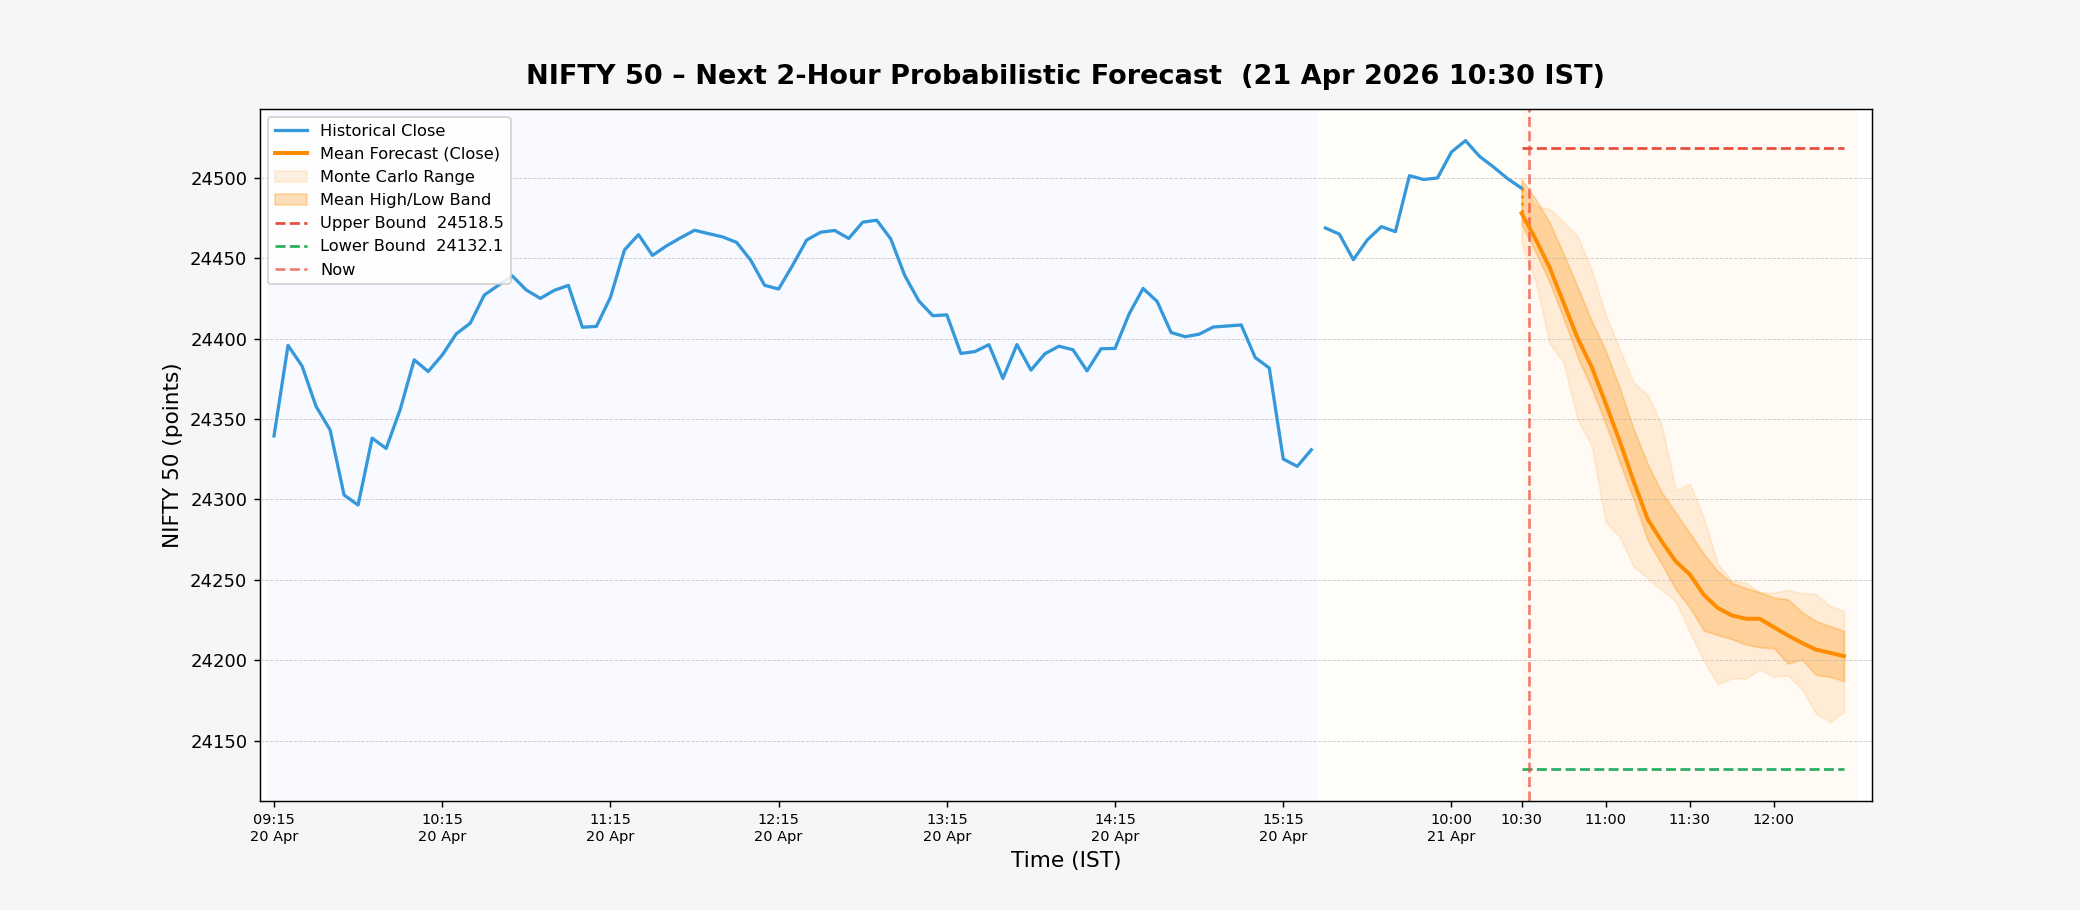
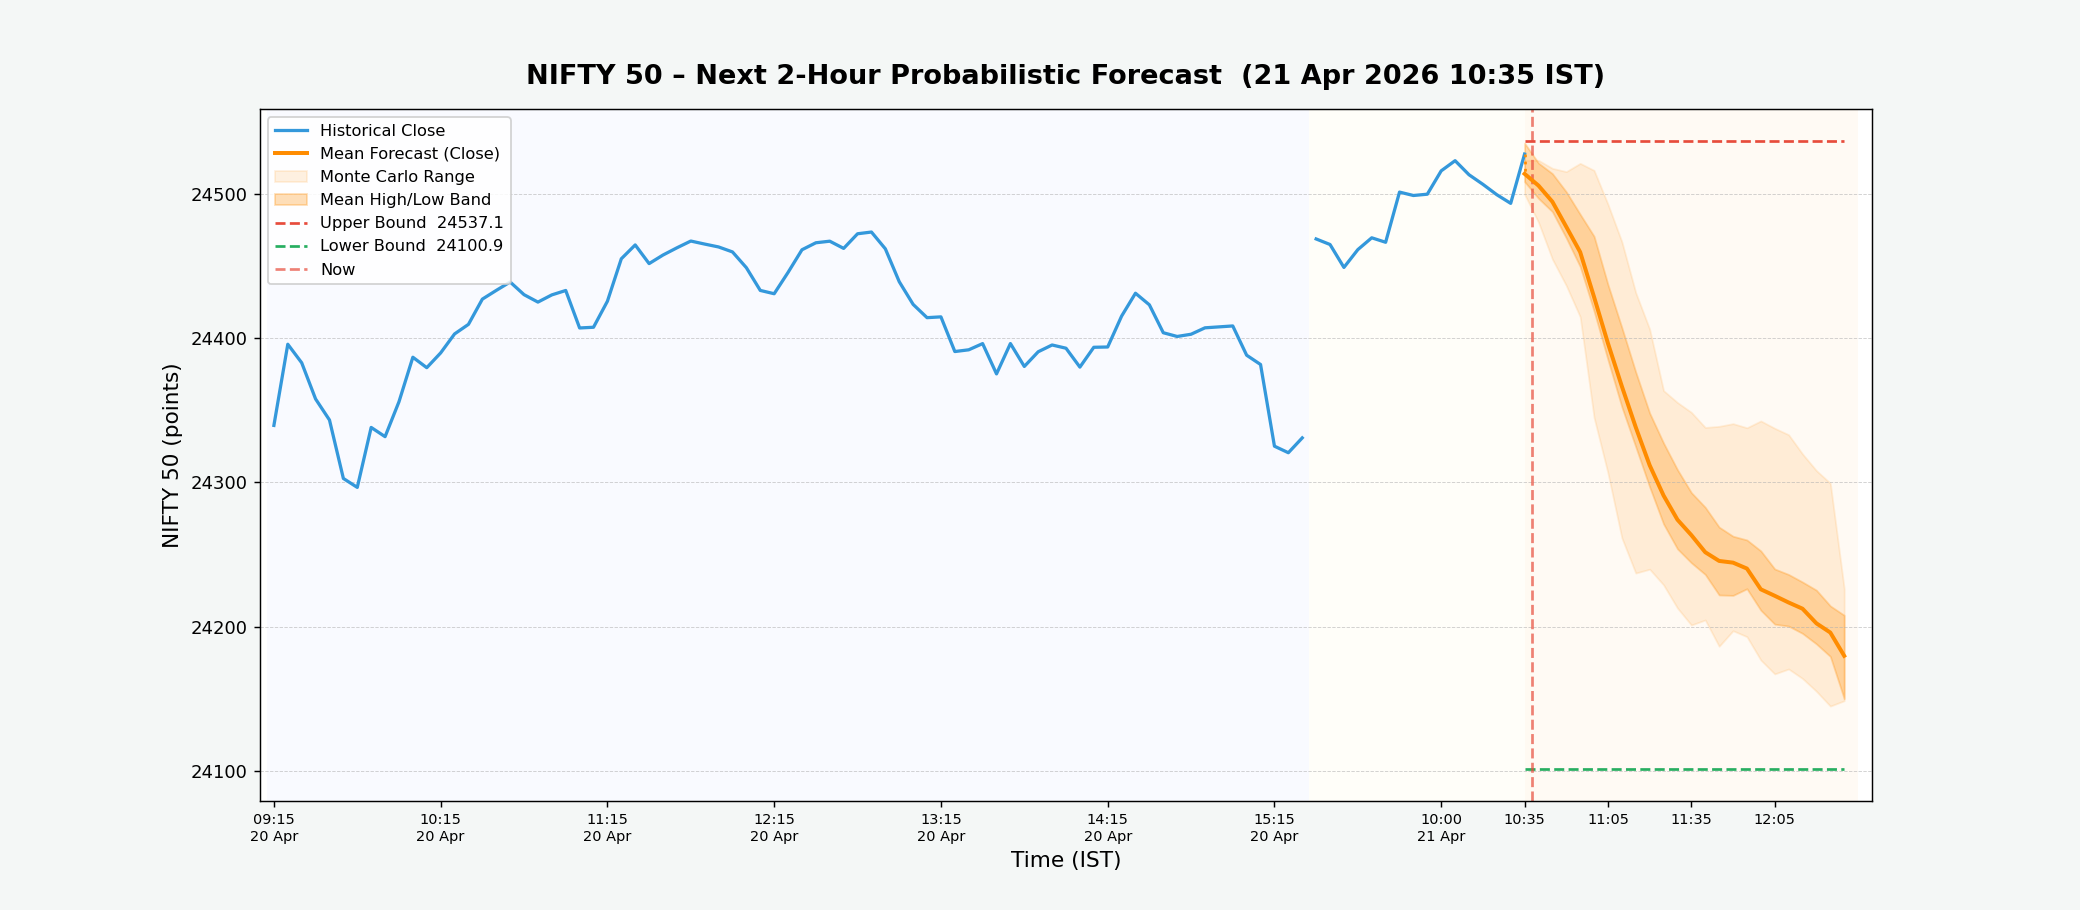
NIFTY forecast update – 2026-04-21 10:35 IST

diff --git a/index.html b/index.html
@@ -24,29 +24,29 @@
 
         <!-- Timestamp bar -->
         <div class="timestamp-bar">
-            <span>Last updated (IST):&nbsp;<strong id="update-time">2026-04-21 10:30:04</strong></span>
+            <span>Last updated (IST):&nbsp;<strong id="update-time">2026-04-21 10:35:04</strong></span>
         </div>
 
         <!-- Metric cards -->
         <div class="metrics-container">
             <div class="metric-card bullish">
                 <div class="metric-label">Bullish Bar Ratio</div>
-                <div class="metric-value" id="upside-prob">18.8%</div>
+                <div class="metric-value" id="upside-prob">16.2%</div>
                 <div class="metric-sub">Next 2h · close &gt; open %</div>
             </div>
             <div class="metric-card upper">
                 <div class="metric-label">Upper Bound</div>
-                <div class="metric-value" id="upper-bound">24518.5</div>
+                <div class="metric-value" id="upper-bound">24537.1</div>
                 <div class="metric-sub">Max predicted high</div>
             </div>
             <div class="metric-card lower">
                 <div class="metric-label">Lower Bound</div>
-                <div class="metric-value" id="lower-bound">24132.1</div>
+                <div class="metric-value" id="lower-bound">24100.9</div>
                 <div class="metric-sub">Min predicted low</div>
             </div>
             <div class="metric-card range">
                 <div class="metric-label">Predicted Range</div>
-                <div class="metric-value" id="pred-range">386.4 pts</div>
+                <div class="metric-value" id="pred-range">436.2 pts</div>
                 <div class="metric-sub">Upper − Lower spread</div>
             </div>
         </div>
